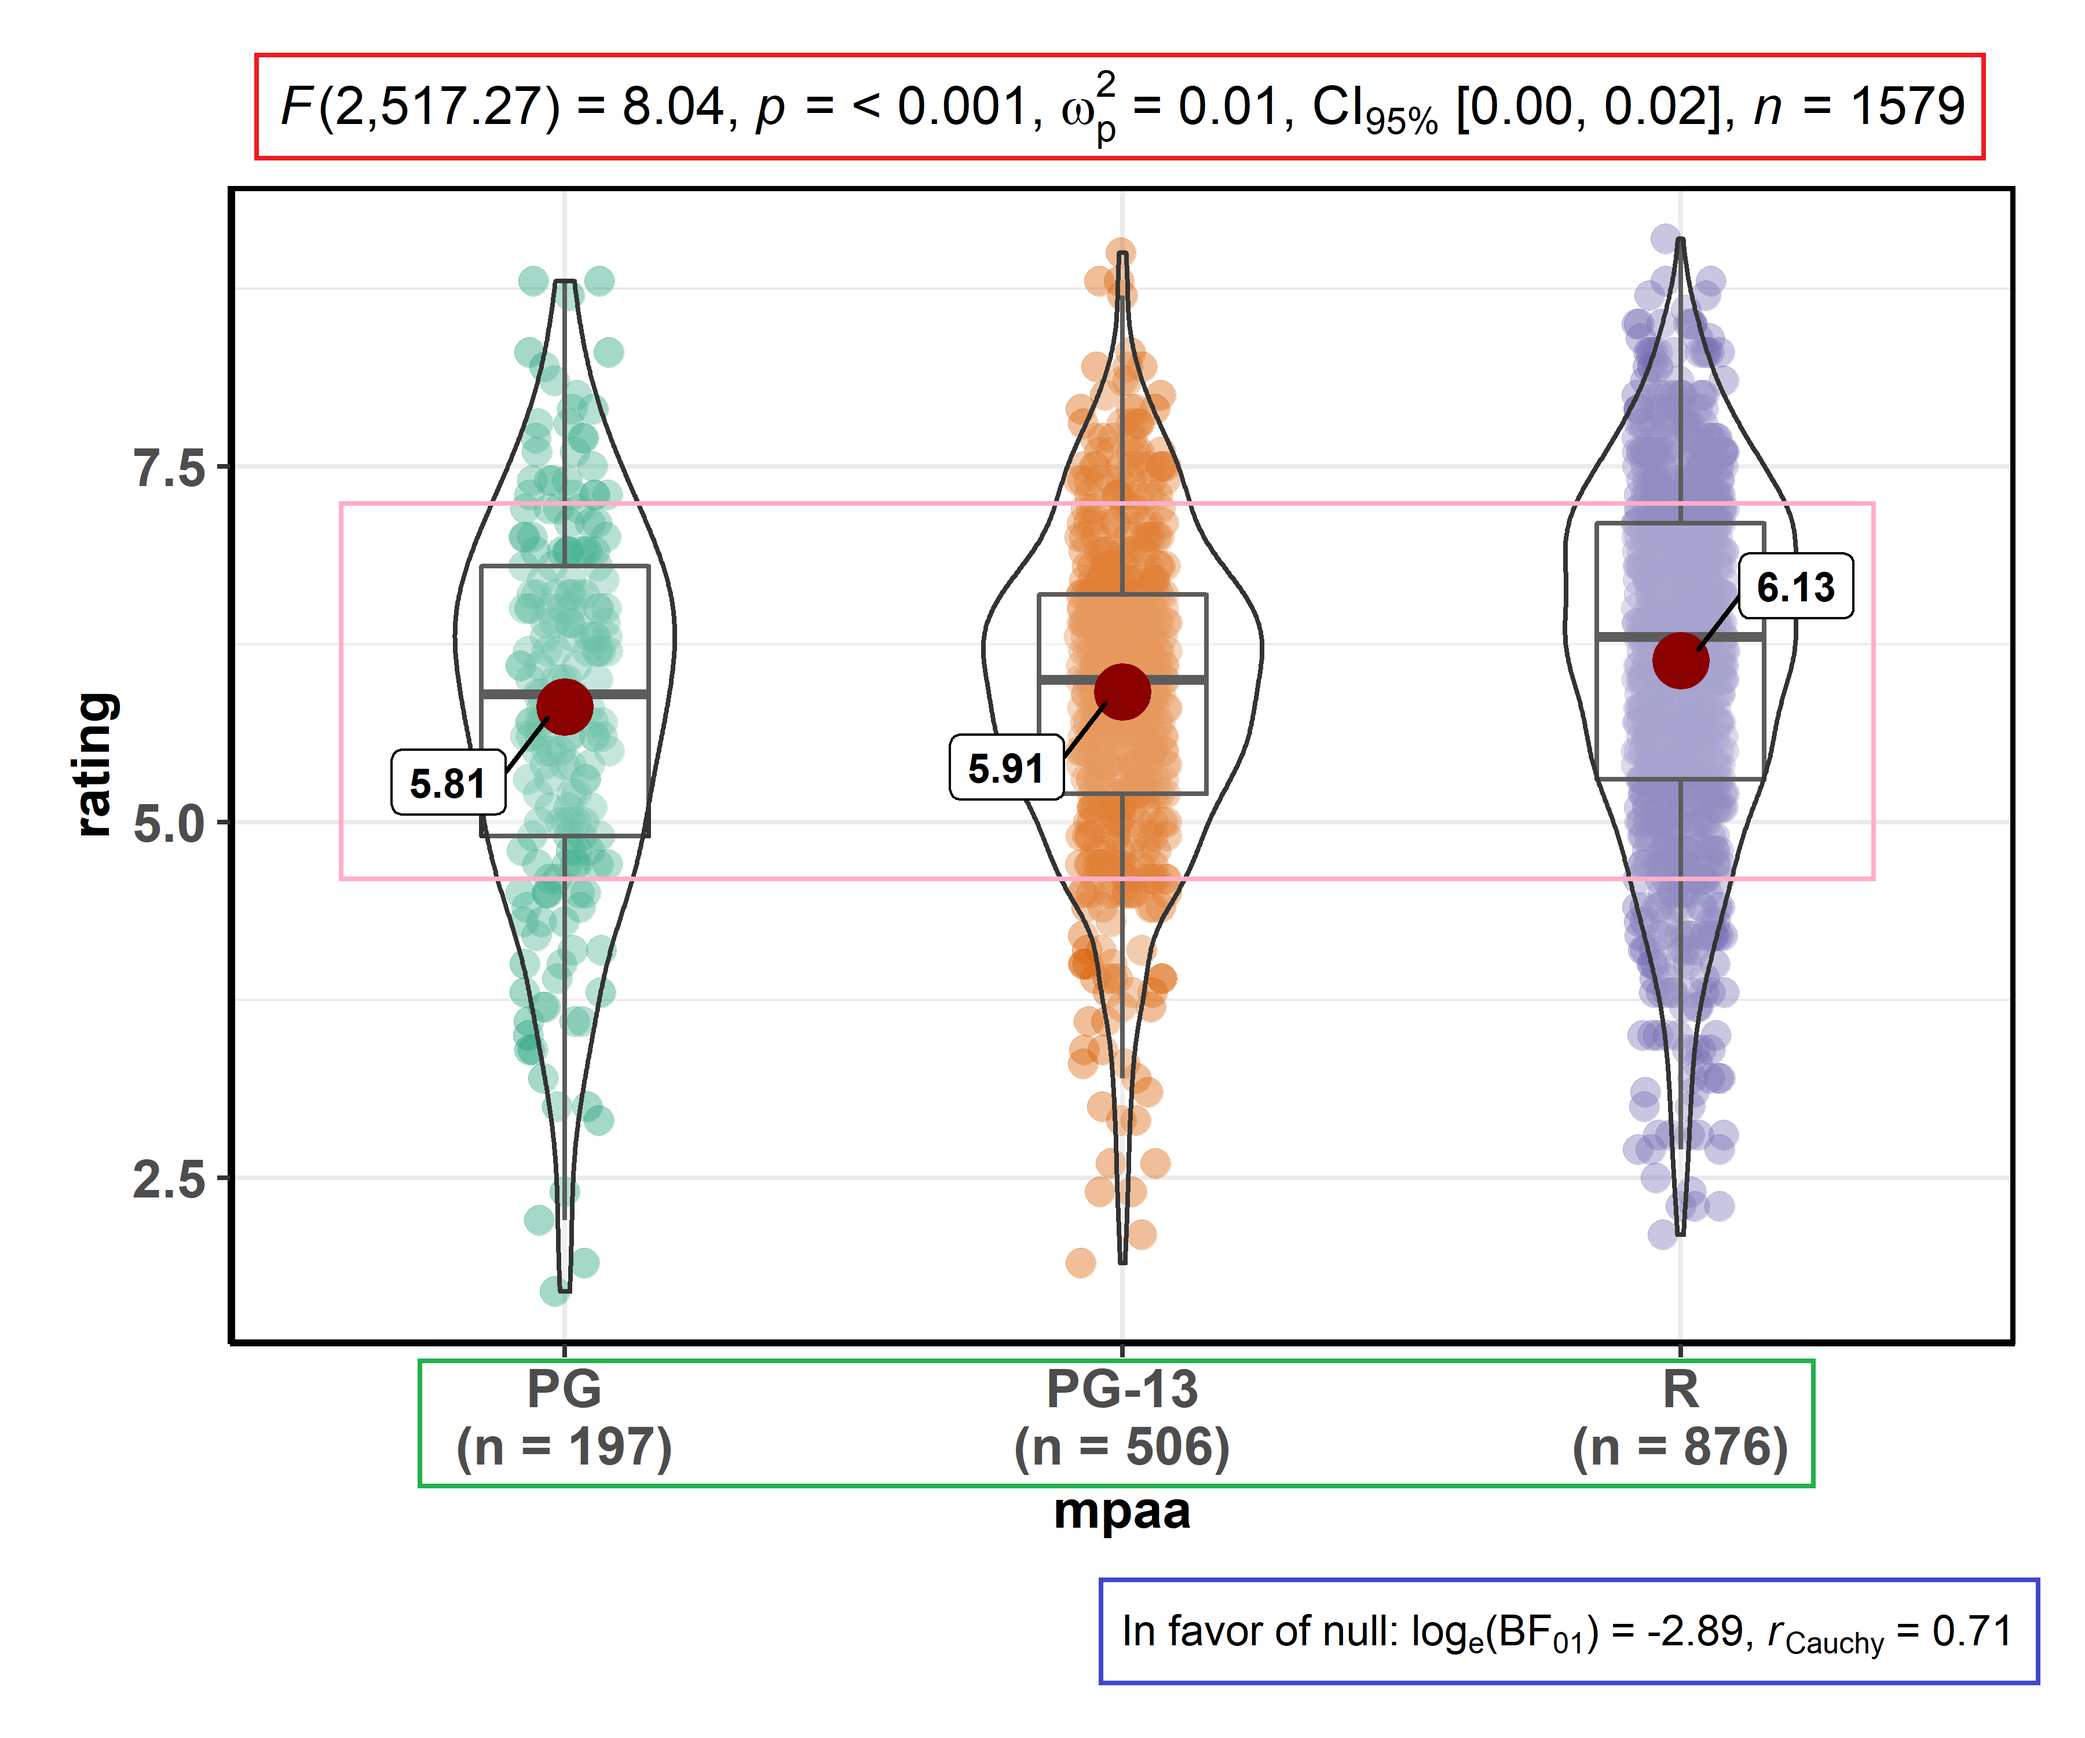
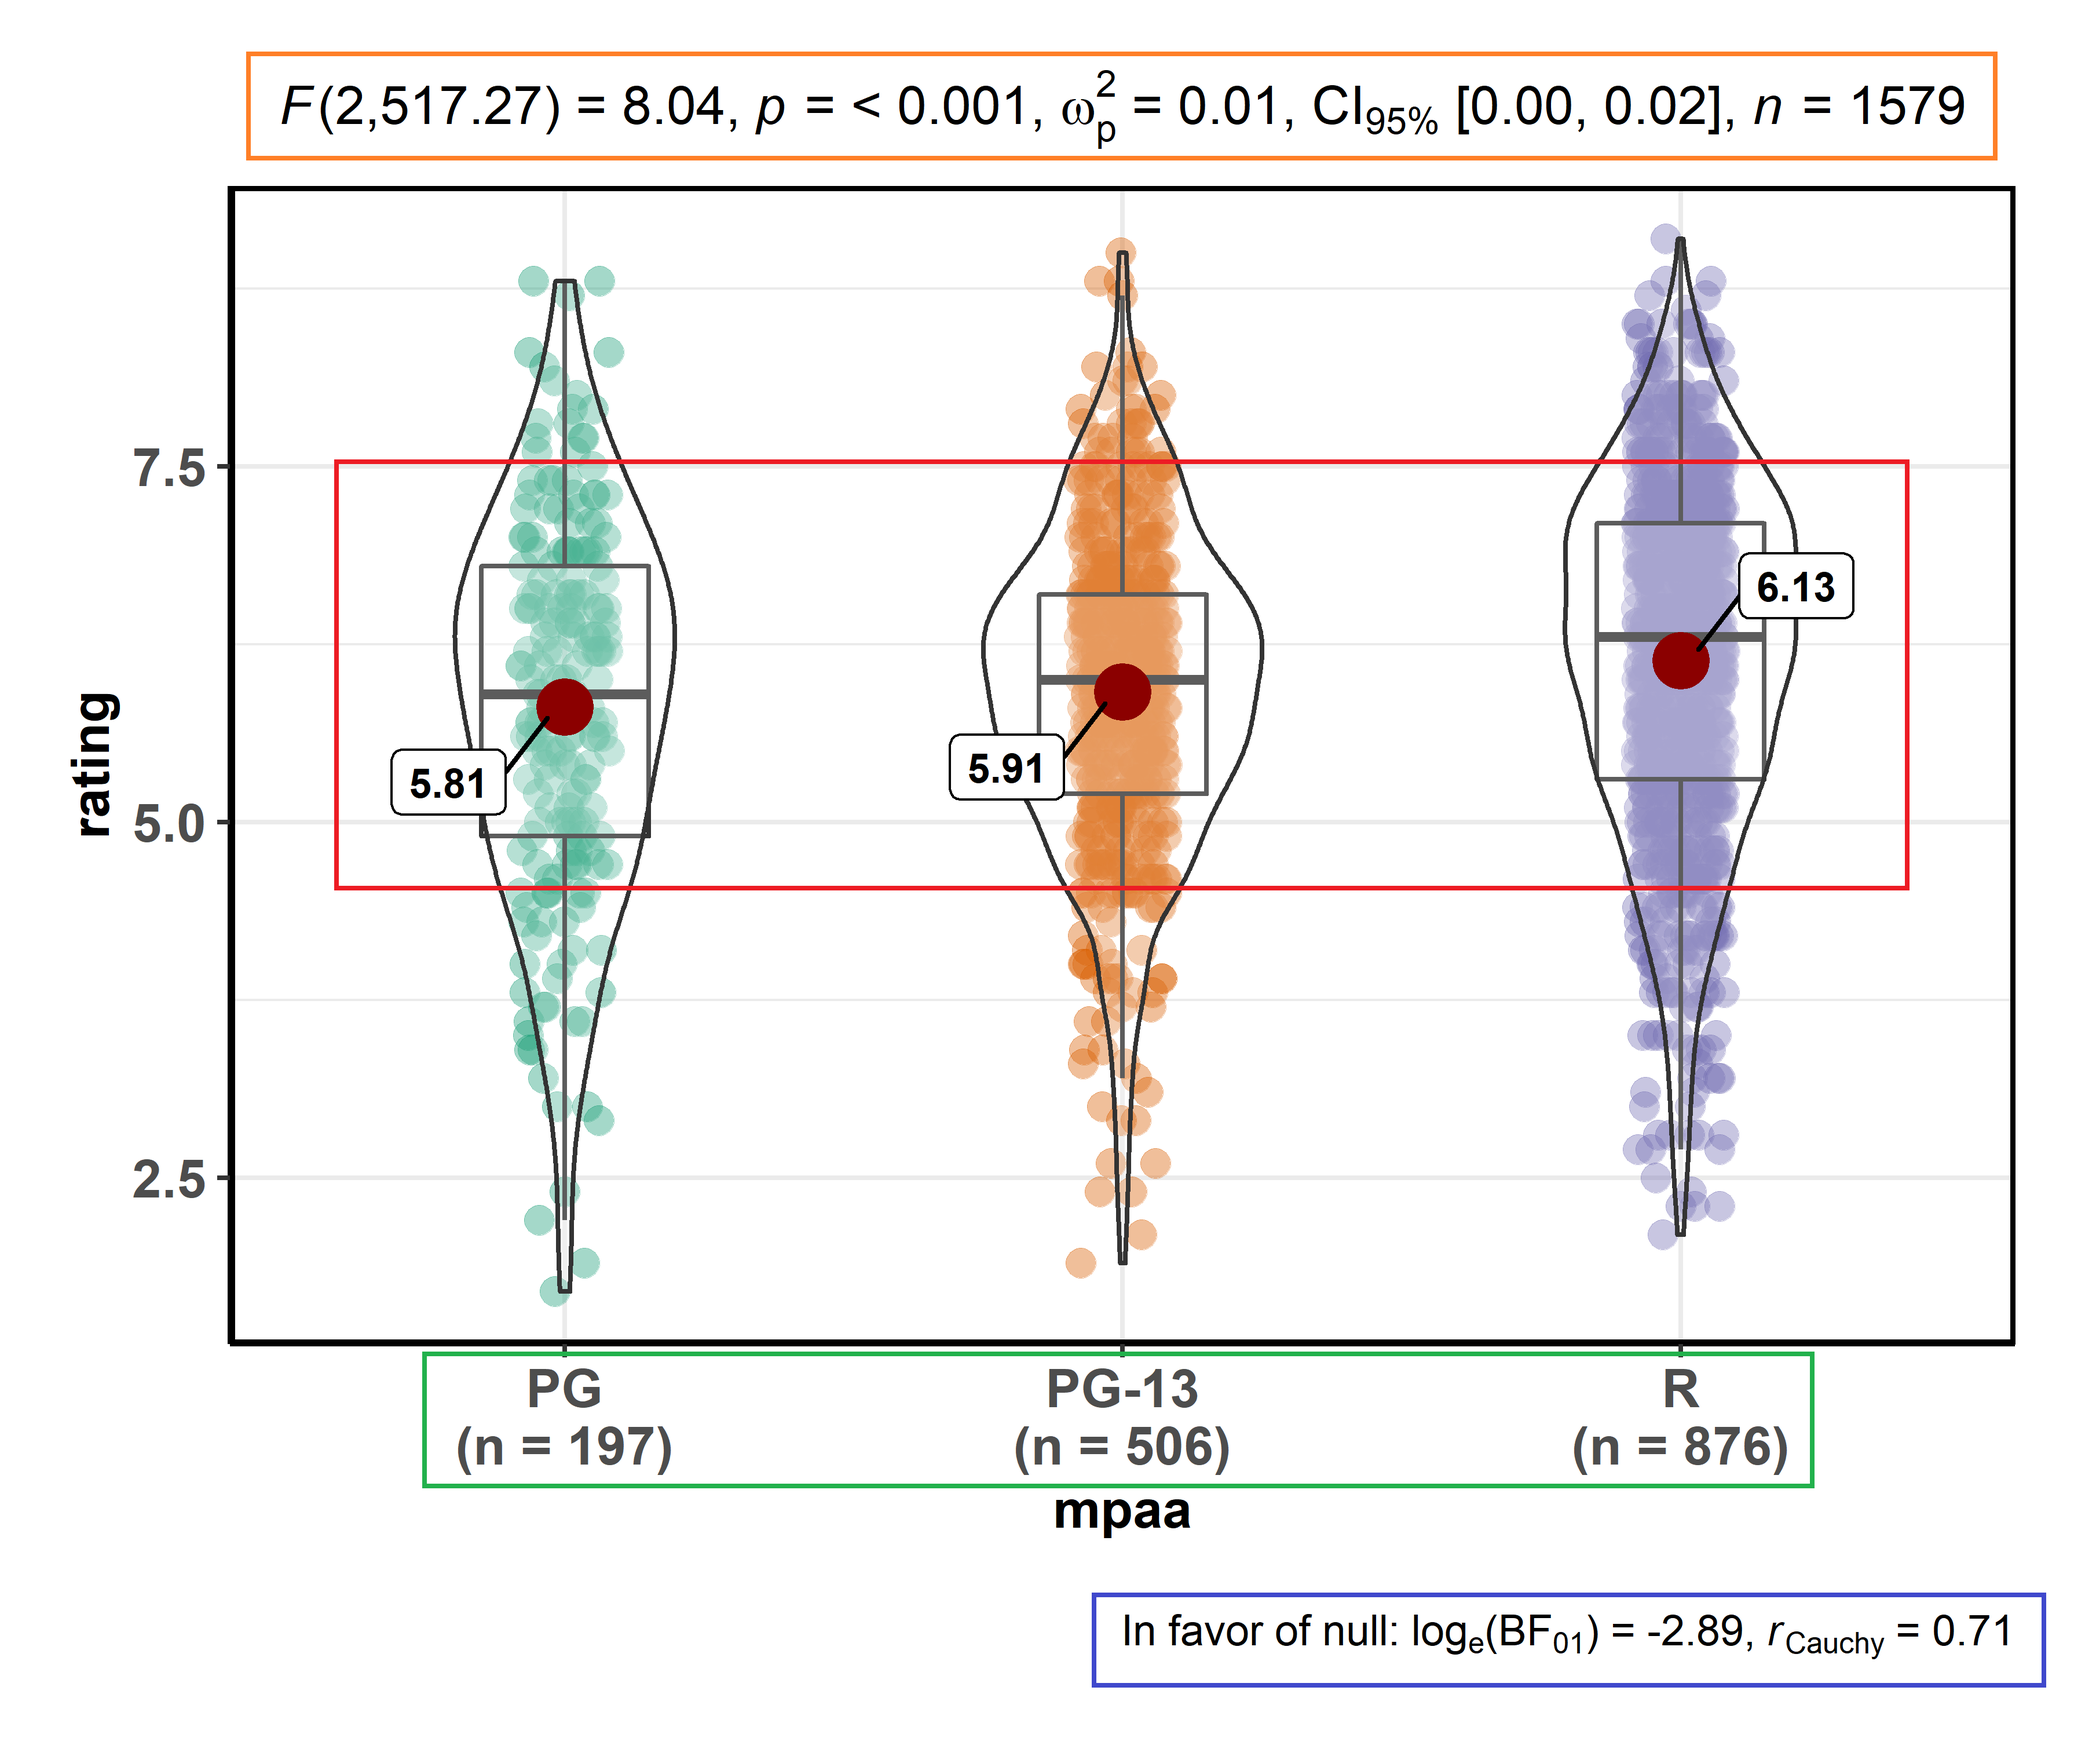
more details slides

diff --git a/docs/slides/ggstatsplot_presentation.html b/docs/slides/ggstatsplot_presentation.html
@@ -159,17 +159,13 @@ layout: true
 
 layout: false
 
-# 3. Ready-made plot == no customization
+# 3. Ready-made plot = no customization
 
 --
 
-The **grammar of graphics** (implemented in `ggplot2`) tells us that a
-statistical graphic is a &lt;font color="blue"&gt;*mapping*&lt;/font&gt; from  &lt;font
-color="blue"&gt;*data*&lt;/font&gt; to &lt;font color="blue"&gt;*aesthetic attributes*&lt;/font&gt;
-(colour, shape, size) of &lt;font color="blue"&gt;*geometric objects*&lt;/font&gt; (points,
-lines, bars). This means you can make infinite number of graphics, each tailored
-for your specific data visualization problem! As such, this is an incredibly
-powerful framework to prepare graphics. But...
+The **grammar of graphics** (implemented in `ggplot2`) is an incredibly powerful
+framework to prepare graphics and lets you make infinite number of graphics,
+each tailored for your specific data visualization problem! But...
 
 --
 
@@ -347,21 +343,20 @@ ggbetweenstats(
   data = movies_long,
   x = mpaa,
   y = rating,
-* bf.message = TRUE,
-  messages = FALSE
+* bf.message = TRUE
 )
 ```
 
 .font80[
 Default information:
 
-- &lt;font color="red"&gt;statistical details&lt;/font&gt;
+- &lt;font color="orange"&gt;statistical details&lt;/font&gt;
 
 - &lt;font color="blue"&gt;Bayes Factor&lt;/font&gt;
 
 - &lt;font color="green"&gt;sample sizes&lt;/font&gt;
 
-- &lt;font color="pink"&gt;distribution summary&lt;/font&gt;
+- &lt;font color="red"&gt;distribution summary&lt;/font&gt;
 ]
 ]
 
@@ -411,7 +406,7 @@ Changing pairwise comparisons displayed
 
 layout: true
 
-# ggbetweenstats - customization
+# ggbetweenstats - (aesthetic) customization
 
 ---
 
@@ -451,7 +446,7 @@ use `ggstatsplot` 😻
 
 layout: true
 
-# ggbetweenstats
+# ggbetweenstats - modification with *ggplot2*
 
 ---
 
@@ -871,6 +866,45 @@ Test by design
 
 ---
 
+layout: true
+
+# ggpiestats - little code, loads information
+
+---
+
+.left-code[
+
+```r
+# let's use subset of data
+ggpiestats(
+  data = dplyr::filter(movies_long, 
+  genre %in% c("Drama", "Comedy", "Animated")), 
+  main = genre,
+  condition = mpaa,
+* conf.level = 0.99,
+* bf.message = TRUE
+)
+```
+
+.font80[
+Default information:
+
+- &lt;font color="orange"&gt;statistical details&lt;/font&gt;
+
+- &lt;font color="blue"&gt;Bayes Factor&lt;/font&gt;
+
+- &lt;font color="green"&gt;sample sizes&lt;/font&gt;
+
+- &lt;font color="red"&gt;distribution summary&lt;/font&gt;
+]
+]
+
+.right-plot[
+![](images/ggpiestats_info.png)
+]
+
+---
+
 .left-code[
 
 ```r
@@ -1000,6 +1034,42 @@ get a dataframe of results:
 
 layout: true
 
+# ggpiestats
+
+---
+
+.left-code[
+
+```r
+# model
+mod &lt;- stats::aov(
+  formula = rating ~ mpaa * genre,
+  data = movies_long
+)
+
+# plot
+ggcoefstats(x = mod)
+```
+
+.font80[
+Default information:
+
+- &lt;font color="red"&gt;estimate + 95% CI&lt;/font&gt;
+
+- &lt;font color="blue"&gt;model summary&lt;/font&gt;
+
+- &lt;font color="green"&gt;statistical details&lt;/font&gt;
+]
+]
+
+.right-plot[
+![](images/ggcoefstats_info.png)
+]
+
+---
+
+layout: true
+
 # *ggcoefstats*: Supported models
 
 ---
@@ -1086,7 +1156,8 @@ layout: true
 
 ```r
 # dataframe with results
-df &lt;- tibble::tribble(
+df &lt;- 
+  tibble::tribble(
   ~term, ~estimate, ~std.error, ~statistic, ~p.value,
   "(Intercept)", 3.77, 0.165, 22.9, 1.49e-20,
   "x", -1.36, 0.258, -5.26, 1.13e-5
@@ -1102,7 +1173,7 @@ ggcoefstats(
 .font80[
 Technically, you only need two
 columns in the dataframe-
-&lt;font color="blue"&gt;term&lt;/font&gt; and &lt;font color="blue"&gt;column&lt;/font&gt;.
+&lt;font color="blue"&gt;term&lt;/font&gt; and &lt;font color="blue"&gt;estimate&lt;/font&gt;.
 ]
 
 ]
